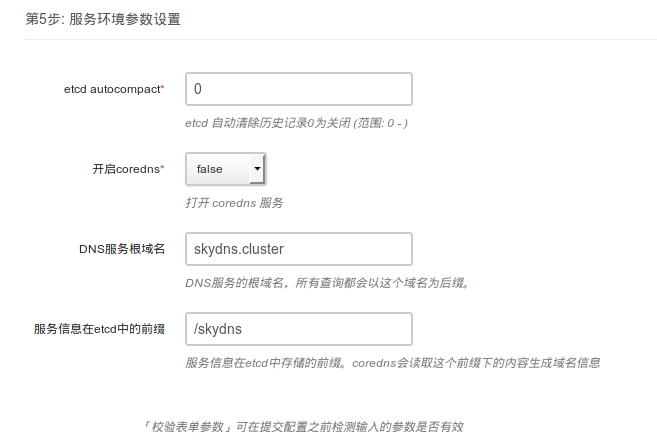
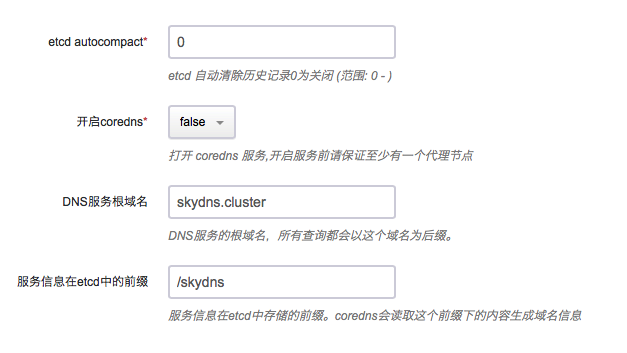
emphasis at least one proxy node available when coredns is enabled.

Changed region(s): [[0.0303, 0.4986, 0.9394, 0.966], [0.0606, 0.0623, 0.7576, 0.4674], [0.0303, 0.0312, 0.2727, 0.0623]]

diff --git a/docs/etcd/README.md b/docs/etcd/README.md
@@ -41,7 +41,7 @@
 
 + 开启 coredns
 
-    打开 coredns 服务，会在代理节点上 53 端口启动 DNS 服务器。如果启用 coredns 服务，请一定要创建代理节点。
+    打开 coredns 服务，会在代理节点上 53 端口启动 DNS 服务器。 **如果启用 coredns 服务，请一定要创建代理节点。**
 
 + DNS 服务根域名
 
